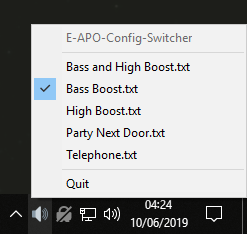
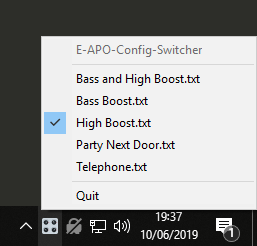
Fully working

Changed region(s): [[0.0, 0.0897, 1.0, 1.0]]

diff --git a/source/main.c b/source/main.c
@@ -4,14 +4,33 @@
 #include "helpers.h"
 
 struct tray tray_app;
+int config_file_count;
+struct e_apo_config *e_apo_configs;
+
+// The file that contains includes to config files
+const char master_config_path[] = "../config.txt";
+
+void write_current_config() {
+    // For each checked config, write the include text to the master config file
+    // TODO: Switch to fopen_s?
+    FILE *fp = fopen(master_config_path, "w");
+    for(int i = 0; i < config_file_count; i++) {
+        if (e_apo_configs[i].checked) {
+            fputs(e_apo_configs[i].include_text, fp);
+            fputs("\n", fp);  // E-APO doesn't like CR LF, only LF
+        }
+    }
+    fclose(fp);
+}
 
 void config_clicked(struct tray_menu *item) {
-    // When a config file in the tray menu is clicked
-    item->checked = !item->checked;
-
     struct e_apo_config *current_config = item->context;
-    printf("include_text: %s\n", current_config->include_text);
 
+    // Update the tray and the struct
+    item->checked = !item->checked;
+    current_config->checked = !current_config->checked;
+
+    write_current_config();
     tray_update(&tray_app);
 }
 
@@ -19,13 +38,7 @@ void quit_app(struct tray_menu *item) {
     tray_exit();
 }
 
-int main() {
-    int config_file_count = get_config_file_count();
-
-    struct e_apo_config *e_apo_configs = malloc(config_file_count * sizeof(struct e_apo_config));
-    populate_e_apo_configs(e_apo_configs);
-
-    struct tray_menu *tray_menu_items = malloc((config_file_count + 5) * sizeof(struct tray_menu));
+void populate_tray_menu(struct tray_menu *tray_menu_items) {
     tray_menu_items[0] = (struct tray_menu) {"E-APO-Config-Switcher", 1, 0, NULL, NULL};
     tray_menu_items[1] = (struct tray_menu) {"-", 0, 0, NULL, NULL};
     tray_menu_items[config_file_count+2] = (struct tray_menu) {"-", 0, 0, NULL, NULL};
@@ -35,22 +48,28 @@ int main() {
     for(int i = 0; i < config_file_count; i++) {
         // i + 2 as the first 2 indexes are already used
         tray_menu_items[i + 2] = (struct tray_menu) {
-            e_apo_configs[i].file_name,
-            0,
-            0,
-            config_clicked,
-            // Pass the e_apo_config struct as context
-            &e_apo_configs[i]
+                e_apo_configs[i].file_name,
+                0,
+                0,
+                config_clicked,
+                // Pass a pointer to the e_apo_config struct as context
+                &e_apo_configs[i]
         };
     }
+}
+
+// See CMakeLists.txt for WinMain usage reason
+int WINAPI WinMain(HINSTANCE hInstance, HINSTANCE hPrevInstance, LPSTR szCmdLine, int iCmdShow ) {
+    config_file_count = get_config_file_count();
+
+    e_apo_configs = malloc(config_file_count * sizeof(struct e_apo_config));
+    struct tray_menu *tray_menu_items = malloc((config_file_count + 5) * sizeof(struct tray_menu));
+
+    populate_e_apo_configs(e_apo_configs);
+    populate_tray_menu(tray_menu_items);
 
     tray_app.icon = "icon.ico";
     tray_app.menu = tray_menu_items;
-
-    // TODO: Logging to file
-    for(int i = 0; i < config_file_count; i++) {
-        printf("Config file loaded: %s\n", e_apo_configs[i].file_name);
-    }
 
     // Init and start tray app
     if (tray_init(&tray_app) < 0) {return 1;}

diff --git a/source/helpers.c b/source/helpers.c
@@ -1,8 +1,9 @@
 #include <windows.h>
 #include "helpers.h"
 
-static const char config_files_glob[] = "E-APO-Config-Files\\*.txt";
-static const char config_files_base[] = "E-APO-Config-Files\\";
+const char config_files_glob[] = "E-APO-Config-Files\\*.txt";
+// config_files_base is relative to the master config.txt
+const char config_files_base[] = "E-APO-Config-Switcher\\E-APO-Config-Files\\";
 
 int get_config_file_count() {
     int file_count = 0;
@@ -35,6 +36,7 @@ void populate_e_apo_configs(struct e_apo_config *e_apo_configs) {
 
             strcpy_s(e_apo_configs[current_file_number].file_name, MAX_FILE_NAME, data.cFileName);
             strcpy_s(e_apo_configs[current_file_number].include_text, MAX_INCLUDE_TEXT, include_text);
+            e_apo_configs[current_file_number].checked = 0;
 
             current_file_number++;
         } while (FindNextFile(hFind, &data));

diff --git a/source/helpers.h b/source/helpers.h
@@ -2,12 +2,13 @@
 #define E_APO_CONFIG_SWITCHER_HELPERS_H
 
 #define MAX_FILE_NAME 255
-// Max path len + 9 for the "Include: " chars
+// Max path len + 9 for "Include: "
 #define MAX_INCLUDE_TEXT 260 + 9
 
 struct e_apo_config {
     char file_name[MAX_FILE_NAME];
     char include_text[MAX_INCLUDE_TEXT];
+    int checked;
 };
 
 int get_config_file_count();

diff --git a/README.md b/README.md
@@ -2,16 +2,21 @@
 
 A small Windows app that sits in the tray and allows you to quickly switch between using different [Equalizer APO](https://sourceforge.net/projects/equalizerapo/) configuration files
 
-Due to this being quite a niche app, several things are assumed:
-- Equalizer APO is installed in `C:\Program Files\EqualizerAPO`
-- This app will be installed in `C:\Program Files\EqualizerAPO\config\E-APO-Config-Switcher`
-- You are not manually editing your Equalizer APO config.txt. if you do it *might* cause errors
+There are a couple of limitations that come with using this app:
+- You cannot manually edit your Equalizer APO configuration. If you do, it will be erased
+- This will not work alongside other configuration programs, such as Peace
+
+## Install
+
+- Download the latest `E-APO-Config-Switcher.zip` from releases
+- Extract it to `<Equalizer APO install location>\EqualizerAPO\config`
+- Run `E_APO_Config_Switcher.exe` (in the same directory as the install script)
+- You should now have an icon in your system tray that you can click on
+- If you want it to run on system startup, create a shortcut to the exe and move it to the windows startup directory
 
 ## Screenshot
 
 ![example](example.png)
-
-*This is a temporary screenshot, there is still a lot to be done*
 
 ## Credits
 
